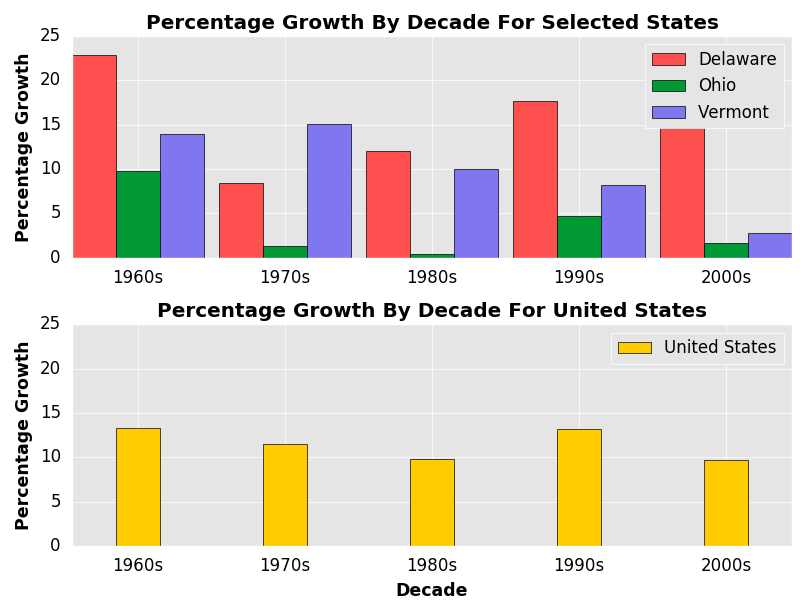
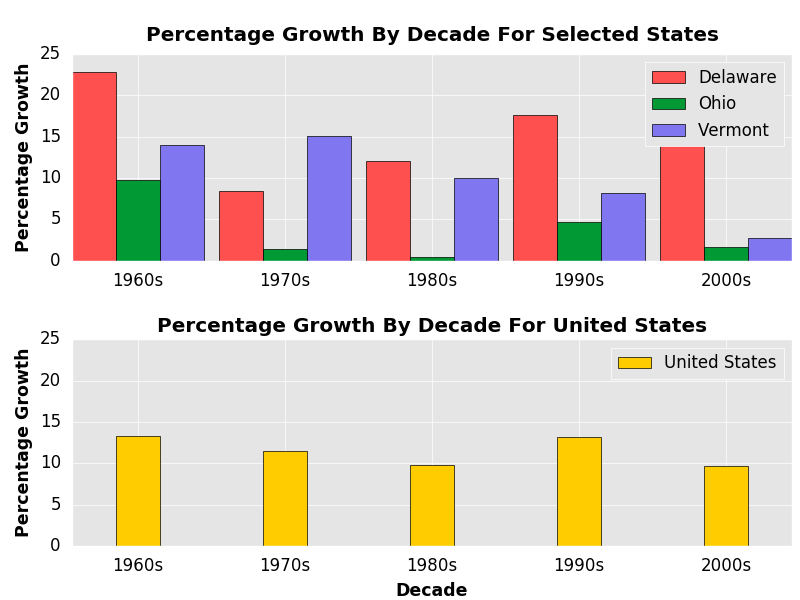
adjust multi plot grouped bar graph spacing
add space between two subplots. add space between both subplots' title
and plot. add new image

diff --git a/multi_plot_grouped_bar_graph.py b/multi_plot_grouped_bar_graph.py
@@ -92,6 +92,9 @@ plt.xticks([0.45, 1.45, 2.45, 3.45, 4.45, 5.45],
 # Set x-axis and y-axis limits for first subplot.
 plt.ylim([0, 25])
 
+# Adjust first subplot title spacing.
+ax1.title.set_position([0.5, 1.05])
+
 # Set title, x-axis, and y-axis labels for first subplot.
 plt.title('Percentage Growth By Decade For Selected States',
           fontweight = 'bold')
@@ -135,6 +138,9 @@ plt.xticks([0.45, 1.45, 2.45, 3.45, 4.45],
 # Set y-axis limits for first subplot.
 plt.ylim([0, 25])
 
+# Adjust second subplot title spacing.
+ax1.title.set_position([0.5, 1.03])
+
 # Set title, x-axis, and y-axis labels for first subplot.
 plt.title('Percentage Growth By Decade For United States',
           fontweight = 'bold')
@@ -154,8 +160,8 @@ plt.legend()
 plt.subplots_adjust(left = 0.09,
                     bottom = 0.09,
                     right = 0.99,
-                    top = 0.94,
-                    hspace = 0.3)
+                    top = 0.91,
+                    hspace = 0.38)
 
 # Show plot.
 plt.show()
